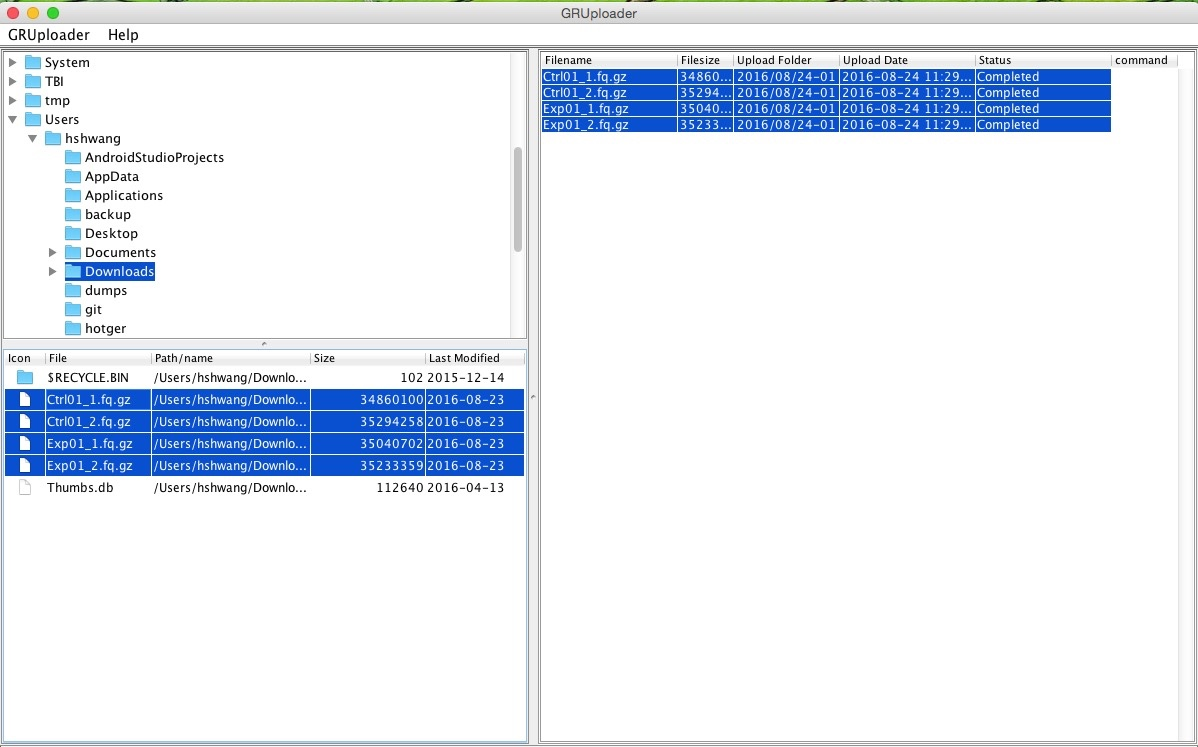
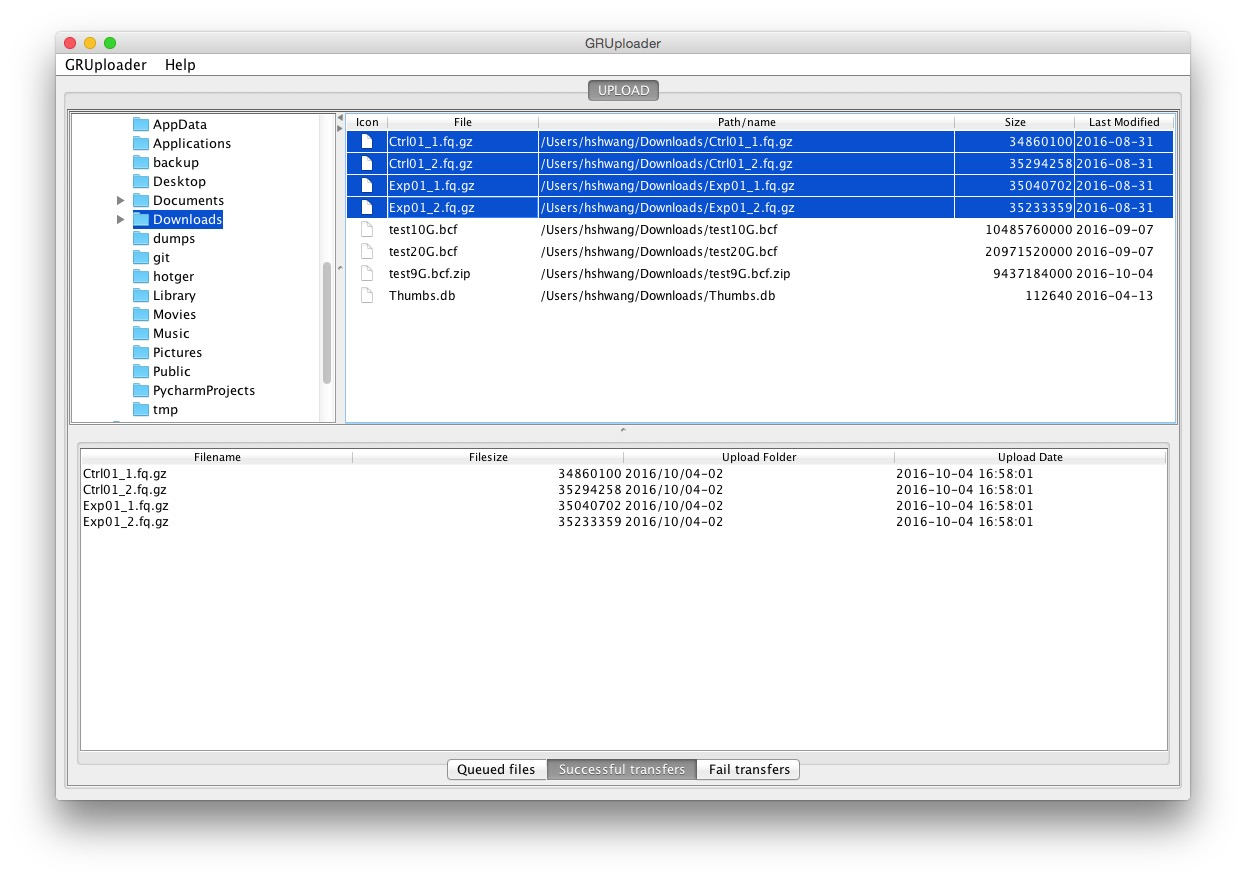
GRUploader 매뉴얼 수정및 이미지 경로 수정

diff --git a/docs/GR_File_Manager.md b/docs/GR_File_Manager.md
@@ -12,20 +12,32 @@
      
 ## 화면 구성
 
-* 왼쪽 상단 : PC의 폴더 정보입니다.
-* 왼쪽 하단 : 선택한 디렉토리의 하위 폴더 및 파일 목록입니다.
+* 상단 왼쪽: 사용자 PC의 폴더 정보입니다.
+* 상단 오른쪽: 선택한 디렉토리의 하위 폴더 및 파일 목록입니다.
     * Icon : 폴더 여부입니다.
     * File : 파일명입니다.
     * Path_name : 파일의 전체 경로입니다
-    *  Size : 디렉토리 또는 파일의 크기입니다.
-    *  Last Modified : 폴더 또는 파일의 마지막 수정 일자입니다.
-* 오른쪽   :  업로드한 파일의 정보와 상태 입니다.
-    * Filename : 업로드한 파일명입니다.
-    * Filesize : 업로드한 파일의 크기입니다.
-    * Upload Folder : 업로드한 파일의 저장 위치 입니다. 형식은 yyyy/MM/dd-당일로그인횟수 입니다.
-    * Status : 업로드 파일의 상태입니다., 별첨 1) 참조
-    * command : 업로드가 완료되기 전에 취소할 수 있는 버튼입니다.
-
+    * Size : 디렉토리 또는 파일의 크기입니다.
+    * Last Modified : 폴더 또는 파일의 마지막 수정 일자입니다.
+* 하단:
+    * **Queued File**: 파일을 업로드 하는 탭
+        * Filename : 업로드한 파일명입니다.
+        * Filesize : 업로드한 파일의 크기입니다.
+        * Upload Folder : 업로드한 파일의 저장 위치 입니다. 형식은 yyyy/MM/dd-당일로그인횟수 입니다.
+        * Upload Data : 업로드 요청한 시간
+        * Status : 업로드 진행 상태입니다., 별첨 1) 참조
+        * command : 업로드가 완료되기 전에 취소할 수 있는 버튼입니다.
+    * **Successful transfers**: 파일을 업로드후 성공한 파일들이 모이는 곳
+        * Filename : 업로드한 파일명입니다.
+        * Filesize : 업로드한 파일의 크기입니다.
+        * Upload Folder : 업로드한 파일의 저장 위치 입니다. 형식은 yyyy/MM/dd-당일로그인횟수 입니다.
+        * Upload Data : 업로드 요청한 시간
+    * **Fail transfers**: 파일을 업로드후 오류가 발생한 파일들이 모이는 곳
+        * Filename : 업로드한 파일명입니다.
+        * Filesize : 업로드한 파일의 크기입니다.
+        * Upload Folder : 업로드한 파일의 저장 위치 입니다. 형식은 yyyy/MM/dd-당일로그인횟수 입니다.
+        * Upload Data : 업로드 한 시간
+        * Status : 업로드 실패 사유
 ![화면](images/screen_1.jpg)
    
 
@@ -36,7 +48,7 @@
 * 로그인 창이 보이지 않으면  상단 메뉴바의 GRUploader > Login  메뉴를 선택합니다.
 * 왼쪽 상단 상자에서 업로드할 파일이 있는 폴더를 선택합니다.
 * 왼쪽 하단 상자에서 업로드할 파일을 선택합니다. 여러개의 파일을 선택할 수 있습니다.
-* 선택한 파일들을 오른쪽 상자로 드래그앤드랍을 합니다.
+* 선택한 파일들을 하단으로 드래그앤드랍을 합니다. **Queued files**탭이 선택되어 있어야 합니다.
 
 ![화면](images/screen_2.jpg)
 
@@ -71,16 +83,24 @@
     * 업로드가 실패한 경우에 다시 로그인을 하는 경우 자동으로 업로드 작업이 진행됩니다.
     * 사용자가 취소한 작업은 자동으로 다시 업로드 되지 않습니다. 
 * 진행 상태바
-    * 업로드 파일의 진행 상황을 알 수 있는 상태바입니다.
+    * 업로드 파일의 진행 상황을 알 수 있는 상태바입니다. 진척율을 보여줍니다.
+* Queued files
+    *  업로드할 파일을 두는 곳입니다.
+* Successful transfers
+    *  업로드가 정상적으로 완료된 파일을 보여줍니다.
+* Fail transfers
+    *  업로드 중 오류가 발생한 파일들을 보여줍니다.
+    *  **Status**를 통해 오류 원인을 알 수 있습니다.
 
+## 별첨1-파일 업로드 상태
 
-## 파일 업로드 상태
-
-* Init : 파일 업로드를 요청한 상태입니다.
+* progress bar : 파일을 진행 상태와 진행율을 보여줍니다.
 * Completed : 파일 업로드가 정상적으로 완료된 상태입니다.
 * Canceled : 파일 업로드를 사용자가 취소한 상태입니다.
 * File upload fail : 알 수 없는 이유로 파일 업로드를 실패한 상태입니다., 해당 파일을 다시 업로드 할 수 있습니다.
-* File duplication error : 같은 upload folder에 같은 파일이 업로드 된 상태입니다. 
+* File duplication error : 같은 upload folder에 같은 파일이 업로드 된 상태입니다.
+* File not exists : 사용자  PC에 파일이 존재하지 않는 상태 입니다.
+* Database inserting : 업로드 파일정보를 데이타베이스 서버에 저장하는 상태입니다.
 
 
 ## 업로드 가능한 파일 유형

diff --git a/docs/quick_start/analysis.md b/docs/quick_start/analysis.md
@@ -8,14 +8,14 @@
 왼쪽 매뉴에서 <a href="https://omics.genome-report.com/analysis" target="_blank"> ANALYSIS</a>를 선택합니다.<br>
 사용 가능한 파이프라인 목록이 보여집니다.  **유전자 발현량 및 발현량 차이 분석 (Tuxedo Protocol)** 파이프라인을 클릭합니다.
 
-![화면](https://github.com/genomereport/gimanual/raw/master/docs/images/analysis_pipeline.jpg)
+![화면](../images/analysis_pipeline.jpg)
 
 
 ## Step 2. 분석 요청서 작성
 
 분석 제목과 설명을 입력합니다.
 
-![화면](https://github.com/genomereport/gimanual/raw/master/docs/images/pipeline_title.jpg)
+![화면](../images/pipeline_title.jpg)
 
 
 ## Step 3. 샘플 선택
@@ -24,18 +24,18 @@
 팝업창에서 **uncategorized &#9654; YYYY &#9654; MM &#9654; dd** 폴더를 선택합니다.<br>
 **Ctrl01**, **Exp01** 샘플을 선택한 뒤 <kbd>승인</kbd>를 선택합니다.
 
-![화면](https://github.com/genomereport/gimanual/raw/master/docs/images/pipeline_sample_choose.jpg)
+![화면](../images/pipeline_sample_choose.jpg)
 
 다음과 같이 선택된 샘플이 테이블 형식으로 보여집니다.
 
-![화면](https://github.com/genomereport/gimanual/raw/master/docs/images/analysis_sample.jpg)
+![화면](../images/analysis_sample.jpg)
 
 
 ## Step 4. 참조 유전체 선택
 
 참조유전체는 `Horse(EquCab2/Ensembl 84)`를 선택합니다.
 
-![화면](https://github.com/genomereport/gimanual/raw/master/docs/images/pipeline_reference.jpg)
+![화면](../images/pipeline_reference.jpg)
 
 
 ## Step 5. 분석 옵션 선택
@@ -47,7 +47,7 @@
 
 실험 디자인에서 Control 항목에 `Ctrl01`을 선택하고,  Experimental 항목에 `Exp01`을 선택합니다.
 
-![화면](https://github.com/genomereport/gimanual/raw/master/docs/images/pipeline_design.jpg)
+![화면](../images/pipeline_design.jpg)
 
 
 ## Step 7. 선택 사항 확인 및 분석 승인
@@ -55,7 +55,7 @@
 선택이 완료되면 아래와 같은 화면이 됩니다. 내용을 최종 확인하고 <kbd>승인</kbd>을 클릭합니다.<br>
 분석 요청이 정상적으로 처리되면 프로젝트 페이지로 자동이동 합니다.
 
-![화면](https://github.com/genomereport/gimanual/raw/master/docs/images/analysis_full_screen.png)
+![화면](../images/analysis_full_screen.png)
 
 
 !!!tip "Tip"
